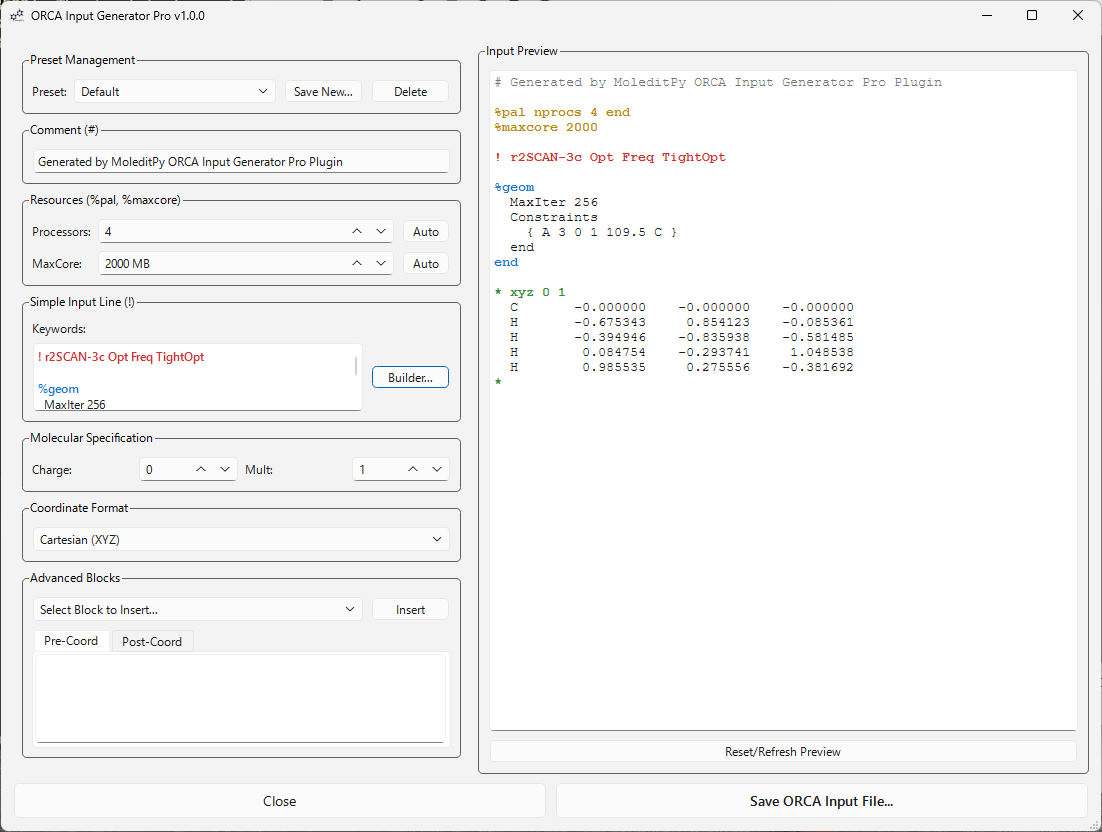
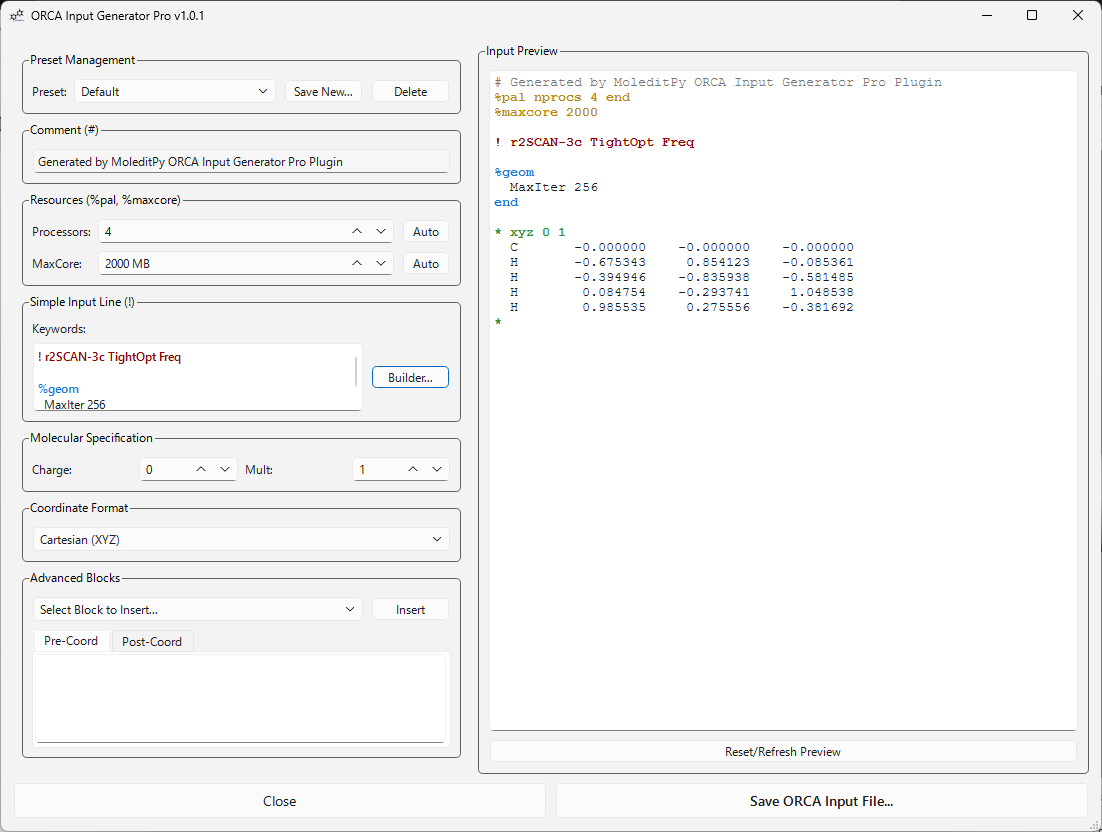
Refine optimization defaults: set TightOpt as default and ensure persistence

diff --git a/orca_input_generator_pro/keyword_builder.py b/orca_input_generator_pro/keyword_builder.py
@@ -13,7 +13,7 @@ from .mixins import Dialog3DPickingMixin
 
 class OrcaKeywordBuilderDialog(Dialog3DPickingMixin, QDialog):
     """
-    Dialog to construct the ORCA Job Route line.
+    Dialog to construct the ORCA Job keywords line.
     """
     def __init__(self, parent=None, current_route="", mol=None, main_window=None):
         QDialog.__init__(self, parent)
@@ -776,6 +776,13 @@ class OrcaKeywordBuilderDialog(Dialog3DPickingMixin, QDialog):
         
         self.opt_group.setVisible(is_opt)
         self.freq_group.setVisible(is_freq)
+        
+        # Ensure TightOpt is the default if no opt-convergence is selected
+        if is_opt:
+            if not self.opt_tight.isChecked() and not self.opt_verytight.isChecked() and not self.opt_loose.isChecked():
+                self.opt_tight.blockSignals(True)
+                self.opt_tight.setChecked(True)
+                self.opt_tight.blockSignals(False)
 
         # 4. TD-DFT (Removed from Route Builder, handled via blocks)
 

diff --git a/orca_input_generator_pro/highlighter.py b/orca_input_generator_pro/highlighter.py
@@ -64,7 +64,7 @@ class OrcaSyntaxHighlighter(QSyntaxHighlighter):
                     self.setFormat(m.capturedStart(), m.capturedLength(), format)
                 continue
 
-            # 3. Route Keywords: Only on ! lines
+            # 3. Keywords: Only on ! lines
             if "\\b(" in p_str: # Keyword list token matching
                 if is_route:
                     match_it = pattern.globalMatch(text)
@@ -73,7 +73,7 @@ class OrcaSyntaxHighlighter(QSyntaxHighlighter):
                         self.setFormat(m.capturedStart(), m.capturedLength(), format)
                 continue
             
-            # 4. Route line anchor (^!): Only if starts with !
+            # 4. Keywords line anchor (^!): Only if starts with !
             if p_str.startswith("^!"):
                 if is_route:
                     match_it = pattern.globalMatch(text)

diff --git a/orca_input_generator_pro/main_dialog.py b/orca_input_generator_pro/main_dialog.py
@@ -754,9 +754,12 @@ class OrcaSetupDialogPro(QDialog):
             res = []
             for l in h_lines:
                 tokens = l.split(); unique = []; seen = set()
+                # Remove redundant Opt if more specific keyword exists
+                has_specific_opt = any(x in seen for x in ["TIGHTOPT", "VERYTIGHTOPT", "LOOSEOPT"])
                 for t in tokens:
                     tu = t.upper()
                     if tu == "!": unique.append(t)
+                    elif tu == "OPT" and has_specific_opt: continue
                     elif tu not in seen: unique.append(t); seen.add(tu)
                 res.append(" ".join(unique))
             return res

diff --git a/README.md b/README.md
@@ -14,7 +14,7 @@ Repo: https://github.com/HiroYokoyama/moleditpy_orca_input_generator_pro
 - **Intuitive Job Builder**: A tabbed interface for easy configuration of Methods, Basis Sets, Job Types, Solvation, and Properties.
 - **Extensive Libraries**: Built-in support for a vast range of DFT (GGA, Hybrid, Meta, Range-Separated, Double Hybrid), Wavefunction (HF, MP2, Coupled Cluster, Multireference), and Semi-empirical methods.
 - **Interactive Constraints & Scans**: Use the 3D viewer to pick 1-4 atoms and instantly define constraints (Position, Distance, Angle, Dihedral) or coordinate scans.
-- **Real-time Preview**: Instantly see the generated job route and the full ORCA input file as you make changes.
+- **Real-time Preview**: Instantly see the generated job keywords and the full ORCA input file as you make changes.
 - **Intelligent Automation**:
   - Automatically deduplicates keywords.
   - Handles specialized resource blocks like `%pal` and `%maxcore`.
